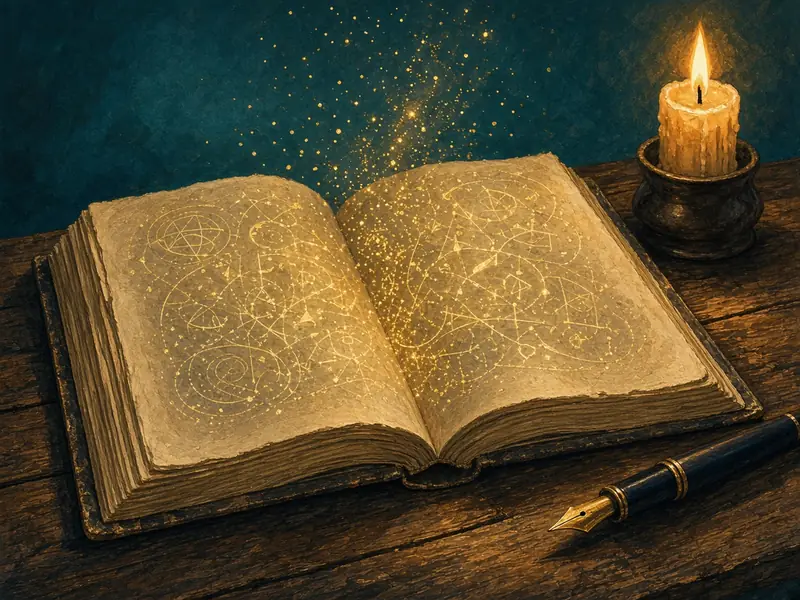
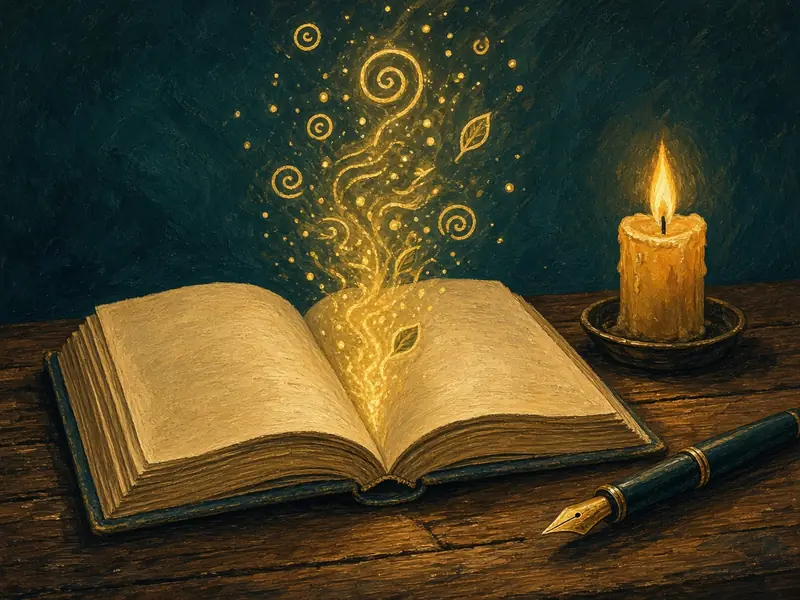
Replace awards ring with open-book circle; round, unclipped margin rune; runic font stack

diff --git a/storybook/index.html b/storybook/index.html
@@ -27,7 +27,7 @@
 <p class="dropcap ink">Open Book Counseling works with individuals, couples, and families, from children and teens through adults, including people in high-stress or high-visibility roles who want discreet, non-shame-based care.</p>
 <p class="ink">Every story has hard chapters. You don't have to read them alone, and you get to help write what comes next.</p>
 <div class="ctas"><a class="btn" href="#match">Find my guide</a><a class="btn ghost" href="https://openbook-counseling.clientsecure.me" target="_blank" rel="noopener">Book an appointment</a></div>
-<section class="awards" id="awards" aria-labelledby="awards-h"><div class="aw-spell" aria-hidden="true"><svg class="aw-circle" viewBox="0 0 200 200"><circle cx="100" cy="100" r="92"/><circle cx="100" cy="100" r="76"/><path d="M100 8 L180 146 L20 146 Z M100 192 L20 54 L180 54 Z"/><text><textPath href="#aw-ring">ᚠ ᚢ ᚦ ᚨ ᚱ ᚲ ᚷ ᚹ ᚺ ᚾ ᛁ ᛃ ᛇ ᛈ ᛉ ᛊ ᛏ ᛒ ᛖ ᛗ ᛚ ᛜ ᛞ ᛟ</textPath></text><defs><path id="aw-ring" d="M100 16 a84 84 0 1 1 -0.1 0"/></defs></svg><span class="aw-flash"></span><canvas class="aw-sparks"></canvas></div>
+<section class="awards" id="awards" aria-labelledby="awards-h"><div class="aw-spell" aria-hidden="true"><svg class="aw-circle" viewBox="0 0 200 200"><circle cx="100" cy="100" r="92"/><circle cx="100" cy="100" r="76"/><path d="M176.0 100.0L170.0 100.0M173.4 119.7L167.6 118.1M165.8 138.0L160.6 135.0M153.7 153.7L149.5 149.5M138.0 165.8L135.0 160.6M119.7 173.4L118.1 167.6M100.0 176.0L100.0 170.0M80.3 173.4L81.9 167.6M62.0 165.8L65.0 160.6M46.3 153.7L50.5 149.5M34.2 138.0L39.4 135.0M26.6 119.7L32.4 118.1M24.0 100.0L30.0 100.0M26.6 80.3L32.4 81.9M34.2 62.0L39.4 65.0M46.3 46.3L50.5 50.5M62.0 34.2L65.0 39.4M80.3 26.6L81.9 32.4M100.0 24.0L100.0 30.0M119.7 26.6L118.1 32.4M138.0 34.2L135.0 39.4M153.7 46.3L149.5 50.5M165.8 62.0L160.6 65.0M173.4 80.3L167.6 81.9"/><path d="M54 104Q76 88 100 100Q124 88 146 104V140Q124 126 100 138Q76 126 54 140Z M100 100V138 M62 110Q80 101 94 108 M62 120Q80 111 94 118 M106 108Q120 101 138 110 M106 118Q120 111 138 120"/><path d="M100 100Q96 80 100 62Q104 80 100 100" opacity=".8"/><circle cx="100" cy="56" r="3"/><text><textPath href="#aw-ring">ᚠ ᚢ ᚦ ᚨ ᚱ ᚲ ᚷ ᚹ ᚺ ᚾ ᛁ ᛃ ᛇ ᛈ ᛉ ᛊ ᛏ ᛒ ᛖ ᛗ ᛚ ᛜ ᛞ ᛟ</textPath></text><defs><path id="aw-ring" d="M100 16 a84 84 0 1 1 -0.1 0"/></defs></svg><span class="aw-flash"></span><canvas class="aw-sparks"></canvas></div>
 <h2 class="aw-h" id="awards-h">City Weekly Best of Utah 2026</h2>
 <div class="aw-penrow"><button class="aw-pen" type="button" aria-label="Write the spell with the magic pen to reveal our City Weekly Best of Utah 2026 honors"><svg viewBox="0 0 220 60" aria-hidden="true"><defs><linearGradient id="awBarrel" x1="0" y1="0" x2="0" y2="1"><stop offset="0" stop-color="#3a5f7a"/><stop offset=".45" stop-color="#1d3346"/><stop offset="1" stop-color="#0d1822"/></linearGradient><linearGradient id="awNib" x1="0" y1="0" x2="1" y2="0"><stop offset="0" stop-color="#f6e2a0"/><stop offset="1" stop-color="#c8962e"/></linearGradient><radialGradient id="awTip"><stop offset="0" stop-color="#fffbe6"/><stop offset=".45" stop-color="#f3d98b"/><stop offset="1" stop-color="#f3d98b" stop-opacity="0"/></radialGradient></defs>
 <path d="M12 30 Q12 23 20 23 L60 23 L60 37 L20 37 Q12 37 12 30Z" fill="url(#awBarrel)" stroke="#0a1219" stroke-width=".8"/>

diff --git a/storybook/theme.css b/storybook/theme.css
@@ -461,3 +461,7 @@ body{background:radial-gradient(ellipse at 50% 0%,#2a1f5c 0,#141038 38%,#070818 
 .mo-rm .rune.rune-burst,.mo-rm .rune.rune-burst::before,.mo-rm .rune.rune-burst::after{animation:none!important}
 @media (prefers-reduced-motion:reduce){.mo-fx{display:none}.torch i::before,.torch i::after{display:none}}
 .mo .awards.cast .aw-list .aw:nth-child(1){animation-delay:.9s}.mo .awards.cast .aw-list .aw:nth-child(3){animation-delay:2.2s}
+
+.rune.found{border-radius:50%!important;aspect-ratio:1/1}
+.vwrap.margin-rune{overflow:visible}.vwrap.margin-rune .vignette{border-radius:6px}
+.rune{font-family:"Segoe UI Historic","Noto Sans Runic","Apple Symbols",Cardo,serif}
